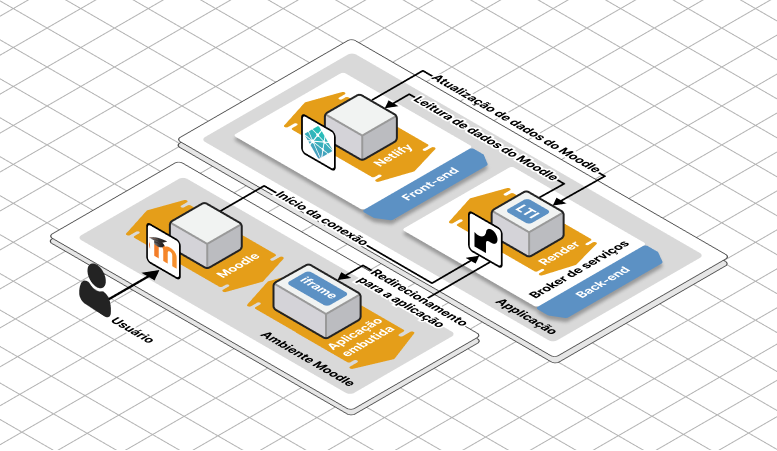
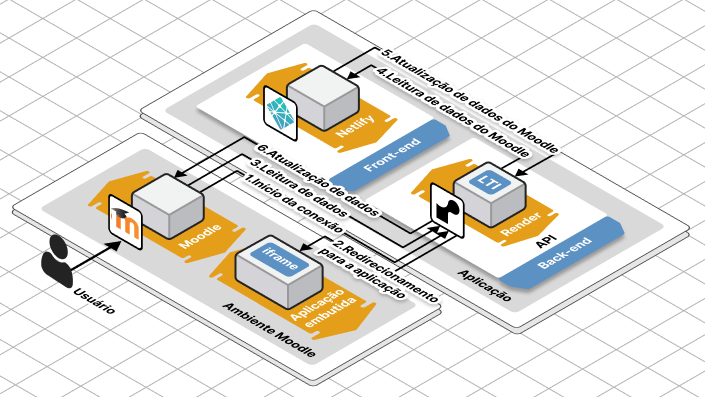
update

diff --git a/2-textuais/3-metodologia.tex b/2-textuais/3-metodologia.tex
@@ -42,9 +42,9 @@ O \textit{framework Capacitor} consome essa coleção de arquivos e cria um proj
 
 O \textit{framework Tauri} constrói instaladores para \textit{desktop} diretamente da coleção de arquivos estáticos. A plataforma alvo dos instaladores é a plataforma na qual eles são construídos, já que o \textit{framework} não tem suporte para construção \textit{cross-platform} é necessária a utilização de máquinas virtuais para construir instaladores para diferentes plataformas \textit{desktop}.
 
-Para a versão \textit{online} da plataforma os serviços de computação em nuvem das empresas \textit{Netlify} e \textit{Render} serão usadas para hospedar respectivamente o \textit{front-end} e \textit{back-end} da aplicação. \textit{Netlify} e \textit{Render} foram escolhidas para hospedagem da aplicação pelo oferecimento gratuito dos serviços para aplicações pequenas como a proposta nesse trabalho. A versão local da aplicação não utiliza serviços de computação em nuvem.
+Para a versão \textit{online} da aplicação, os serviços de computação em nuvem das empresas \textit{Netlify} e \textit{Render} serão usados para hospedar respectivamente o \textit{front-end} e \textit{back-end} da aplicação. \textit{Netlify} e \textit{Render} foram escolhidas para hospedagem da aplicação pelo oferecimento gratuito dos serviços para aplicações pequenas como a proposta nesse trabalho.
 
-A aplicação pode ser acessada através do \textit{Moodle} usando como comunicação entre os dois a \gls{api} da aplicação. O diagrama na Figura \ref{fig:arqremo} mostra o esquema da arquitetura da aplicação hospedada em nuvem com integração ao \textit{Moodle}.
+A aplicação pode ser acessada através do \textit{Moodle} usando como comunicação entre os dois a \gls{api} da aplicação. O diagrama na Figura \ref{fig:arqremo} mostra o esquema da arquitetura da aplicação hospedada em nuvem com integração ao \textit{Moodle}. A versão hospedada localmente da aplicação segue a mesma arquitetura com exceção da utilização de serviços de computação em nuvem.
 
 \begin{figure}[ht]
   \centering
@@ -57,8 +57,6 @@ A aplicação pode ser acessada através do \textit{Moodle} usando como comunica
 \FloatBarrier
 
 \section{Interface de usuário}
-Essa seção irá falar sobre os detalhes de implementação da interface de usuário da ferramenta. 
-
 Para que o usuário selecione um algoritmo para visualizar a ferramenta terá opções no topo da tela que alternam entre abas. Dentre essas abas estarão inclusas uma para a entrada de gramáticas e uma aba para visualização de cada algoritmo disponível.
 
 Para que o usuário possa dar uma gramática de entrada será criado um campo de texto como mostra Figura \ref{fig:mgrammar}.
